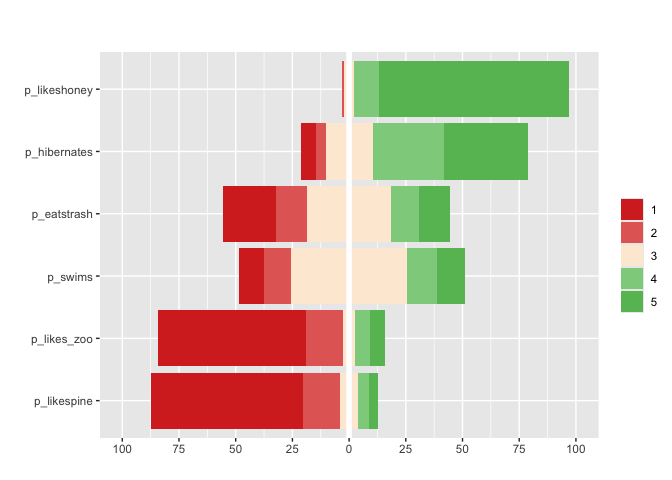
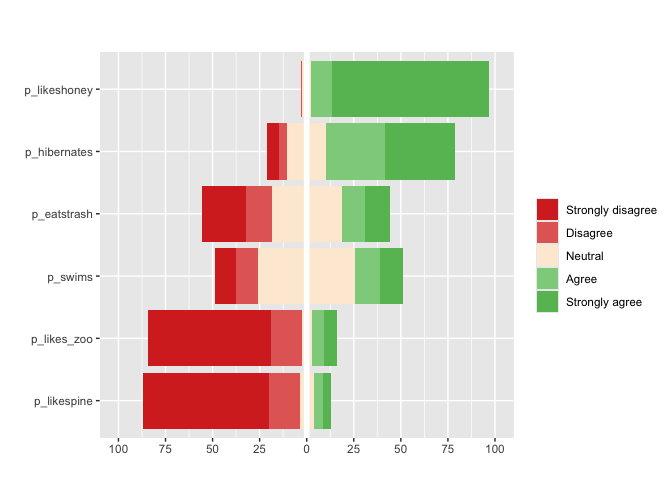
matrix_mean standard error bug fix

diff --git a/README.md b/README.md
@@ -41,7 +41,7 @@ single_table(berlinbears,
              question = income)
 ```
 
-<div id="tundrwdxii" style="padding-left:0px;padding-right:0px;padding-top:10px;padding-bottom:10px;overflow-x:auto;overflow-y:auto;width:auto;height:auto;">
+<div id="ddpmfeguch" style="padding-left:0px;padding-right:0px;padding-top:10px;padding-bottom:10px;overflow-x:auto;overflow-y:auto;width:auto;height:auto;">
   &#10;  <table class="gt_table" data-quarto-disable-processing="false" data-quarto-bootstrap="false" style="-webkit-font-smoothing: antialiased; -moz-osx-font-smoothing: grayscale; font-family: system-ui, 'Segoe UI', Roboto, Helvetica, Arial, sans-serif, 'Apple Color Emoji', 'Segoe UI Emoji', 'Segoe UI Symbol', 'Noto Color Emoji'; display: table; border-collapse: collapse; line-height: normal; margin-left: auto; margin-right: auto; color: #333333; font-size: 16px; font-weight: normal; font-style: normal; background-color: #FFFFFF; width: auto; border-top-style: solid; border-top-width: 2px; border-top-color: #A8A8A8; border-right-style: none; border-right-width: 2px; border-right-color: #D3D3D3; border-bottom-style: solid; border-bottom-width: 2px; border-bottom-color: #A8A8A8; border-left-style: none; border-left-width: 2px; border-left-color: #D3D3D3;" bgcolor="#FFFFFF">
   <thead style="border-style: none;">
     <tr class="gt_heading" style="border-style: none; background-color: #FFFFFF; text-align: center; border-bottom-color: #FFFFFF; border-left-style: none; border-left-width: 1px; border-left-color: #D3D3D3; border-right-style: none; border-right-width: 1px; border-right-color: #D3D3D3;" bgcolor="#FFFFFF" align="center">
@@ -91,7 +91,7 @@ single_table(berlinbears,
              group_by = gender)
 ```
 
-<div id="imfkneltcw" style="padding-left:0px;padding-right:0px;padding-top:10px;padding-bottom:10px;overflow-x:auto;overflow-y:auto;width:auto;height:auto;">
+<div id="anijpetrfk" style="padding-left:0px;padding-right:0px;padding-top:10px;padding-bottom:10px;overflow-x:auto;overflow-y:auto;width:auto;height:auto;">
   &#10;  <table class="gt_table" data-quarto-disable-processing="false" data-quarto-bootstrap="false" style="-webkit-font-smoothing: antialiased; -moz-osx-font-smoothing: grayscale; font-family: system-ui, 'Segoe UI', Roboto, Helvetica, Arial, sans-serif, 'Apple Color Emoji', 'Segoe UI Emoji', 'Segoe UI Symbol', 'Noto Color Emoji'; display: table; border-collapse: collapse; line-height: normal; margin-left: auto; margin-right: auto; color: #333333; font-size: 16px; font-weight: normal; font-style: normal; background-color: #FFFFFF; width: auto; border-top-style: solid; border-top-width: 2px; border-top-color: #A8A8A8; border-right-style: none; border-right-width: 2px; border-right-color: #D3D3D3; border-bottom-style: solid; border-bottom-width: 2px; border-bottom-color: #A8A8A8; border-left-style: none; border-left-width: 2px; border-left-color: #D3D3D3;" bgcolor="#FFFFFF">
   <thead style="border-style: none;">
     <tr class="gt_heading" style="border-style: none; background-color: #FFFFFF; text-align: center; border-bottom-color: #FFFFFF; border-left-style: none; border-left-width: 1px; border-left-color: #D3D3D3; border-right-style: none; border-right-width: 1px; border-right-color: #D3D3D3;" bgcolor="#FFFFFF" align="center">
@@ -213,7 +213,7 @@ single_table(berlinbears,
              subgroups_to_exclude = NA) 
 ```
 
-<div id="ahsnxsjpfl" style="padding-left:0px;padding-right:0px;padding-top:10px;padding-bottom:10px;overflow-x:auto;overflow-y:auto;width:auto;height:auto;">
+<div id="brfwhtxbms" style="padding-left:0px;padding-right:0px;padding-top:10px;padding-bottom:10px;overflow-x:auto;overflow-y:auto;width:auto;height:auto;">
   &#10;  <table class="gt_table" data-quarto-disable-processing="false" data-quarto-bootstrap="false" style="-webkit-font-smoothing: antialiased; -moz-osx-font-smoothing: grayscale; font-family: system-ui, 'Segoe UI', Roboto, Helvetica, Arial, sans-serif, 'Apple Color Emoji', 'Segoe UI Emoji', 'Segoe UI Symbol', 'Noto Color Emoji'; display: table; border-collapse: collapse; line-height: normal; margin-left: auto; margin-right: auto; color: #333333; font-size: 16px; font-weight: normal; font-style: normal; background-color: #FFFFFF; width: auto; border-top-style: solid; border-top-width: 2px; border-top-color: #A8A8A8; border-right-style: none; border-right-width: 2px; border-right-color: #D3D3D3; border-bottom-style: solid; border-bottom-width: 2px; border-bottom-color: #A8A8A8; border-left-style: none; border-left-width: 2px; border-left-color: #D3D3D3;" bgcolor="#FFFFFF">
   <thead style="border-style: none;">
     <tr class="gt_heading" style="border-style: none; background-color: #FFFFFF; text-align: center; border-bottom-color: #FFFFFF; border-left-style: none; border-left-width: 1px; border-left-color: #D3D3D3; border-right-style: none; border-right-width: 1px; border-right-color: #D3D3D3;" bgcolor="#FFFFFF" align="center">
@@ -315,7 +315,7 @@ single_table(berlinbears,
              na.rm = TRUE)
 ```
 
-<div id="unqdtuvjib" style="padding-left:0px;padding-right:0px;padding-top:10px;padding-bottom:10px;overflow-x:auto;overflow-y:auto;width:auto;height:auto;">
+<div id="oquncvufba" style="padding-left:0px;padding-right:0px;padding-top:10px;padding-bottom:10px;overflow-x:auto;overflow-y:auto;width:auto;height:auto;">
   &#10;  <table class="gt_table" data-quarto-disable-processing="false" data-quarto-bootstrap="false" style="-webkit-font-smoothing: antialiased; -moz-osx-font-smoothing: grayscale; font-family: system-ui, 'Segoe UI', Roboto, Helvetica, Arial, sans-serif, 'Apple Color Emoji', 'Segoe UI Emoji', 'Segoe UI Symbol', 'Noto Color Emoji'; display: table; border-collapse: collapse; line-height: normal; margin-left: auto; margin-right: auto; color: #333333; font-size: 16px; font-weight: normal; font-style: normal; background-color: #FFFFFF; width: auto; border-top-style: solid; border-top-width: 2px; border-top-color: #A8A8A8; border-right-style: none; border-right-width: 2px; border-right-color: #D3D3D3; border-bottom-style: solid; border-bottom-width: 2px; border-bottom-color: #A8A8A8; border-left-style: none; border-left-width: 2px; border-left-color: #D3D3D3;" bgcolor="#FFFFFF">
   <thead style="border-style: none;">
     <tr class="gt_heading" style="border-style: none; background-color: #FFFFFF; text-align: center; border-bottom-color: #FFFFFF; border-left-style: none; border-left-width: 1px; border-left-color: #D3D3D3; border-right-style: none; border-right-width: 1px; border-right-color: #D3D3D3;" bgcolor="#FFFFFF" align="center">
@@ -411,7 +411,7 @@ single_table(berlinbears,
              weights = weights)
 ```
 
-<div id="qlccbehszv" style="padding-left:0px;padding-right:0px;padding-top:10px;padding-bottom:10px;overflow-x:auto;overflow-y:auto;width:auto;height:auto;">
+<div id="bgrbuwpayg" style="padding-left:0px;padding-right:0px;padding-top:10px;padding-bottom:10px;overflow-x:auto;overflow-y:auto;width:auto;height:auto;">
   &#10;  <table class="gt_table" data-quarto-disable-processing="false" data-quarto-bootstrap="false" style="-webkit-font-smoothing: antialiased; -moz-osx-font-smoothing: grayscale; font-family: system-ui, 'Segoe UI', Roboto, Helvetica, Arial, sans-serif, 'Apple Color Emoji', 'Segoe UI Emoji', 'Segoe UI Symbol', 'Noto Color Emoji'; display: table; border-collapse: collapse; line-height: normal; margin-left: auto; margin-right: auto; color: #333333; font-size: 16px; font-weight: normal; font-style: normal; background-color: #FFFFFF; width: auto; border-top-style: solid; border-top-width: 2px; border-top-color: #A8A8A8; border-right-style: none; border-right-width: 2px; border-right-color: #D3D3D3; border-bottom-style: solid; border-bottom-width: 2px; border-bottom-color: #A8A8A8; border-left-style: none; border-left-width: 2px; border-left-color: #D3D3D3;" bgcolor="#FFFFFF">
   <thead style="border-style: none;">
     <tr class="gt_heading" style="border-style: none; background-color: #FFFFFF; text-align: center; border-bottom-color: #FFFFFF; border-left-style: none; border-left-width: 1px; border-left-color: #D3D3D3; border-right-style: none; border-right-width: 1px; border-right-color: #D3D3D3;" bgcolor="#FFFFFF" align="center">
@@ -546,7 +546,7 @@ multi_table(berlinbears,
             na.rm = TRUE)
 ```
 
-<div id="jjyogjbuhl" style="padding-left:0px;padding-right:0px;padding-top:10px;padding-bottom:10px;overflow-x:auto;overflow-y:auto;width:auto;height:auto;">
+<div id="oratwsmnra" style="padding-left:0px;padding-right:0px;padding-top:10px;padding-bottom:10px;overflow-x:auto;overflow-y:auto;width:auto;height:auto;">
   &#10;  <table class="gt_table" data-quarto-disable-processing="false" data-quarto-bootstrap="false" style="-webkit-font-smoothing: antialiased; -moz-osx-font-smoothing: grayscale; font-family: system-ui, 'Segoe UI', Roboto, Helvetica, Arial, sans-serif, 'Apple Color Emoji', 'Segoe UI Emoji', 'Segoe UI Symbol', 'Noto Color Emoji'; display: table; border-collapse: collapse; line-height: normal; margin-left: auto; margin-right: auto; color: #333333; font-size: 16px; font-weight: normal; font-style: normal; background-color: #FFFFFF; width: auto; border-top-style: solid; border-top-width: 2px; border-top-color: #A8A8A8; border-right-style: none; border-right-width: 2px; border-right-color: #D3D3D3; border-bottom-style: solid; border-bottom-width: 2px; border-bottom-color: #A8A8A8; border-left-style: none; border-left-width: 2px; border-left-color: #D3D3D3;" bgcolor="#FFFFFF">
   <thead style="border-style: none;">
     <tr class="gt_heading" style="border-style: none; background-color: #FFFFFF; text-align: center; border-bottom-color: #FFFFFF; border-left-style: none; border-left-width: 1px; border-left-color: #D3D3D3; border-right-style: none; border-right-width: 1px; border-right-color: #D3D3D3;" bgcolor="#FFFFFF" align="center">
@@ -663,7 +663,7 @@ matrix_table(berlinbears,
              group_by = is_parent)
 ```
 
-<div id="hlxzzjjhyz" style="padding-left:0px;padding-right:0px;padding-top:10px;padding-bottom:10px;overflow-x:auto;overflow-y:auto;width:auto;height:auto;">
+<div id="toxxzhrhsq" style="padding-left:0px;padding-right:0px;padding-top:10px;padding-bottom:10px;overflow-x:auto;overflow-y:auto;width:auto;height:auto;">
   &#10;  <table class="gt_table" data-quarto-disable-processing="false" data-quarto-bootstrap="false" style="-webkit-font-smoothing: antialiased; -moz-osx-font-smoothing: grayscale; font-family: system-ui, 'Segoe UI', Roboto, Helvetica, Arial, sans-serif, 'Apple Color Emoji', 'Segoe UI Emoji', 'Segoe UI Symbol', 'Noto Color Emoji'; display: table; border-collapse: collapse; line-height: normal; margin-left: auto; margin-right: auto; color: #333333; font-size: 16px; font-weight: normal; font-style: normal; background-color: #FFFFFF; width: auto; border-top-style: solid; border-top-width: 2px; border-top-color: #A8A8A8; border-right-style: none; border-right-width: 2px; border-right-color: #D3D3D3; border-bottom-style: solid; border-bottom-width: 2px; border-bottom-color: #A8A8A8; border-left-style: none; border-left-width: 2px; border-left-color: #D3D3D3;" bgcolor="#FFFFFF">
   <thead style="border-style: none;">
     <tr class="gt_heading" style="border-style: none; background-color: #FFFFFF; text-align: center; border-bottom-color: #FFFFFF; border-left-style: none; border-left-width: 1px; border-left-color: #D3D3D3; border-right-style: none; border-right-width: 1px; border-right-color: #D3D3D3;" bgcolor="#FFFFFF" align="center">
@@ -734,7 +734,7 @@ matrix_mean(berlinbears,
 <img src="man/figures/README-unnamed-chunk-23-1.png" width="100%" />
 
 ``` r
-#Can also apply grouping
+#Can also apply grouping + survey weights
 matrix_mean(berlinbears, 
             question = dplyr::starts_with('p_'),
             na.rm = TRUE,
@@ -744,27 +744,8 @@ matrix_mean(berlinbears,
 
 <img src="man/figures/README-unnamed-chunk-23-2.png" width="100%" />
 
-``` r
-#with survey weights
-matrix_mean(berlinbears, 
-            question = dplyr::starts_with('p_'),
-            na.rm = TRUE,
-            group_by = species, 
-            subgroups_to_exclude = NA, 
-            weights = weights)
-```
-
-<img src="man/figures/README-unnamed-chunk-23-3.png" width="100%" />
-
 Finally, for Likert questions (scales of 3,5,7,9…) `matrix_likert`
 provides a custom plot
-
-``` r
-matrix_likert(berlinbears, 
-              question = dplyr::starts_with('p_'))
-```
-
-<img src="man/figures/README-unnamed-chunk-24-1.png" width="100%" />
 
 ``` r
 #you can specify custom labels with the `label` argument
@@ -773,21 +754,11 @@ matrix_likert(berlinbears,
               labels = c('Strongly disagree', 'Disagree','Neutral','Agree','Strongly agree'))
 ```
 
-<img src="man/figures/README-unnamed-chunk-24-2.png" width="100%" />
+<img src="man/figures/README-unnamed-chunk-24-1.png" width="100%" />
 
 ``` r
 
-#and pass colors using the colors option 
-matrix_likert(berlinbears, 
-              question = dplyr::starts_with('p_'),
-              labels = c('Strongly disagree', 'Disagree','Neutral','Agree','Strongly agree'),
-              colors = c("#E1AA28", "#1E5F46", "#7E8F75", "#EFCD83", "#E17832"))
-```
-
-<img src="man/figures/README-unnamed-chunk-24-3.png" width="100%" />
-
-``` r
-#can also apply weights 
+#can also apply pass custom colors and specify weights weights 
 matrix_likert(berlinbears, 
               question = dplyr::starts_with('p_'),
               labels = c('Strongly disagree', 'Disagree','Neutral','Agree','Strongly agree'), 
@@ -795,7 +766,7 @@ matrix_likert(berlinbears,
               weights = weights) 
 ```
 
-<img src="man/figures/README-unnamed-chunk-24-4.png" width="100%" />
+<img src="man/figures/README-unnamed-chunk-24-2.png" width="100%" />
 
 ## Overview
 

diff --git a/NEWS.md b/NEWS.md
@@ -2,6 +2,7 @@
 
 -   Add ability to specify column order with matrix_table function
 -   Set default order for multi_table for results to be shown from high to low remove frequency summary row for non-grouped data
+-   Bug fix in matrix_mean that caused standard errors to be underestimated for weighted data
 
 # surveyexplorer 0.1.0
 
